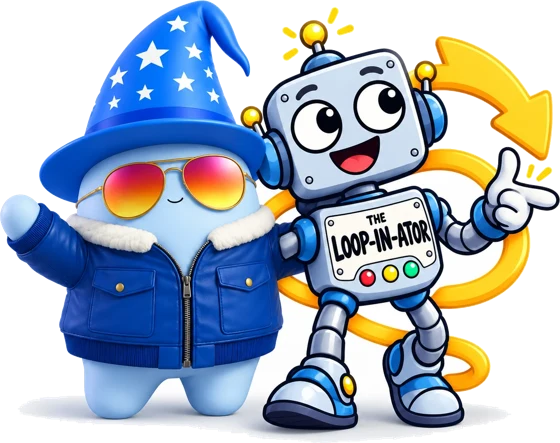
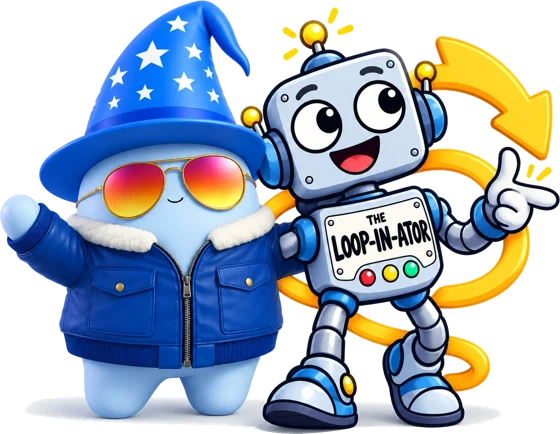
Loop Tracker mascot: clear the white gaps between the characters and the ground shadow

diff --git a/index.html b/index.html
@@ -7,7 +7,7 @@
 <link rel="preconnect" href="https://fonts.googleapis.com">
 <link rel="preconnect" href="https://fonts.gstatic.com" crossorigin>
 <link href="https://fonts.googleapis.com/css2?family=Barlow:wght@400;500;600;700;800&display=swap" rel="stylesheet">
-<link rel="stylesheet" href="style.css?v=2610191118">
+<link rel="stylesheet" href="style.css?v=2610191346">
 <link rel="icon" type="image/png" href="assets/logo-icon.png">
 <script src="https://accounts.google.com/gsi/client" async defer></script>
 </head>
@@ -370,15 +370,15 @@
 </div>
 
 <script src="https://cdn.jsdelivr.net/npm/chart.js@4.4.4/dist/chart.umd.min.js" integrity="sha384-NrKB+u6Ts6AtkIhwPixiKTzgSKNblyhlk0Sohlgar9UHUBzai/sgnNNWWd291xqt" crossorigin="anonymous" defer></script>
-<script src="js/core.js?v=2610191118" defer></script>
-<script src="js/support.js?v=2610191118" defer></script>
-<script src="js/implementation.js?v=2610191118" defer></script>
-<script src="js/scorecards.js?v=2610191118" defer></script>
-<script src="js/firm-assignment.js?v=2610191118" defer></script>
-<script src="js/loop-tracker.js?v=2610191118" defer></script>
-<script src="js/roundup.js?v=2610191118" defer></script>
-<script src="js/resources.js?v=2610191118" defer></script>
-<script src="js/firm-lookup.js?v=2610191118" defer></script>
-<script src="js/boot.js?v=2610191118" defer></script>
+<script src="js/core.js?v=2610191346" defer></script>
+<script src="js/support.js?v=2610191346" defer></script>
+<script src="js/implementation.js?v=2610191346" defer></script>
+<script src="js/scorecards.js?v=2610191346" defer></script>
+<script src="js/firm-assignment.js?v=2610191346" defer></script>
+<script src="js/loop-tracker.js?v=2610191346" defer></script>
+<script src="js/roundup.js?v=2610191346" defer></script>
+<script src="js/resources.js?v=2610191346" defer></script>
+<script src="js/firm-lookup.js?v=2610191346" defer></script>
+<script src="js/boot.js?v=2610191346" defer></script>
 </body>
 </html>

diff --git a/services/index.html b/services/index.html
@@ -8,7 +8,7 @@
   <link rel="preconnect" href="https://fonts.gstatic.com" crossorigin>
   <link rel="stylesheet" href="https://fonts.googleapis.com/css2?family=Barlow:wght@400;500;600;700&display=swap">
   <link rel="icon" href="assets/favicon.svg" type="image/svg+xml">
-  <link rel="stylesheet" href="assets/styles.css?v=2610191118">
+  <link rel="stylesheet" href="assets/styles.css?v=2610191346">
   <script>/* Only the standalone app needs the Google sign-in button; the CS Dashboard tab reuses its sign-in. */
     try { if (window.parent === window || !window.parent.AUTH) document.write('<script src="https://accounts.google.com/gsi/client" async defer><\/script>'); } catch (e) { document.write('<script src="https://accounts.google.com/gsi/client" async defer><\/script>'); }</script>
 </head>
@@ -169,10 +169,10 @@
     <div class="drawer-body" id="dBody"></div>
   </aside>
 
-  <script src="assets/config.js?v=2610191118"></script>
-  <script src="assets/app.js?v=2610191118"></script>
-  <script src="assets/quote.js?v=2610191118"></script>
-  <script src="assets/board.js?v=2610191118"></script>
-  <script src="assets/boot.js?v=2610191118"></script>
+  <script src="assets/config.js?v=2610191346"></script>
+  <script src="assets/app.js?v=2610191346"></script>
+  <script src="assets/quote.js?v=2610191346"></script>
+  <script src="assets/board.js?v=2610191346"></script>
+  <script src="assets/boot.js?v=2610191346"></script>
 </body>
 </html>

diff --git a/js/loop-tracker.js b/js/loop-tracker.js
@@ -109,7 +109,7 @@ function renderLoop() {
       </div>
       <div class="loop-hero-art">
         <div class="loop-bubble">${groups[0].items.length ? `${groups[0].items.length} loop${groups[0].items.length === 1 ? '' : 's'} to close${oldest ? ` — oldest from ${esc(loopAgo(oldest))}` : ''}!` : 'Every loop is closed. Nice!'}</div>
-        <img src="assets/merlin-loopinator.webp" alt="Merlin and the Loop-in-ator" width="560" height="443">
+        <img src="assets/merlin-loopinator.webp?v=2" alt="Merlin and the Loop-in-ator" width="560" height="443">
       </div>
     </section>
     <div class="loop-board">

diff --git a/js/implementation.js b/js/implementation.js
@@ -450,7 +450,7 @@ function mountServices() {
   const root = document.getElementById('services-root');
   if (!root || root.querySelector('iframe')) return;
   const frame = document.createElement('iframe');
-  frame.src = 'services/index.html?v=2610191118';
+  frame.src = 'services/index.html?v=2610191346';
   frame.title = 'Additional Services';
   frame.className = 'services-frame';
   root.appendChild(frame);
